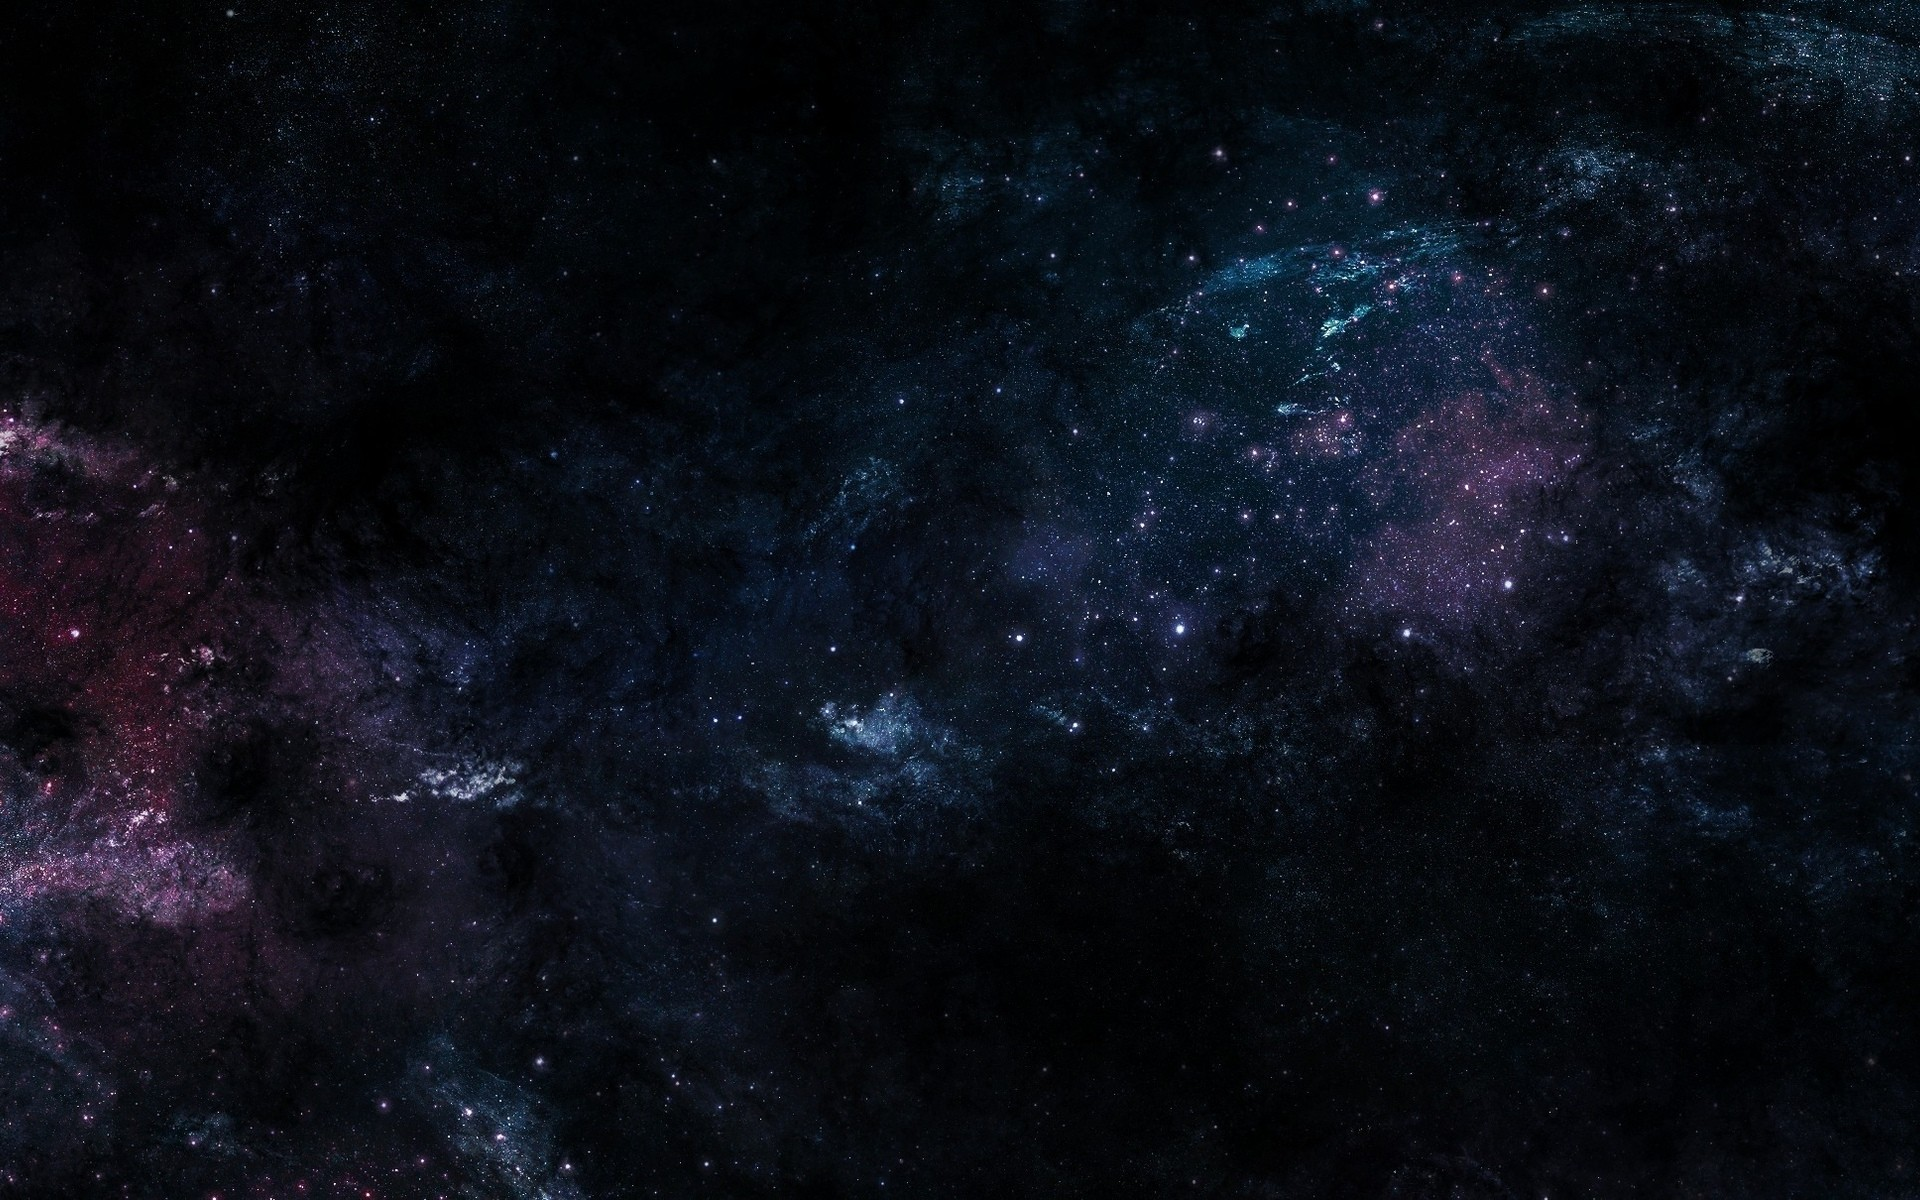
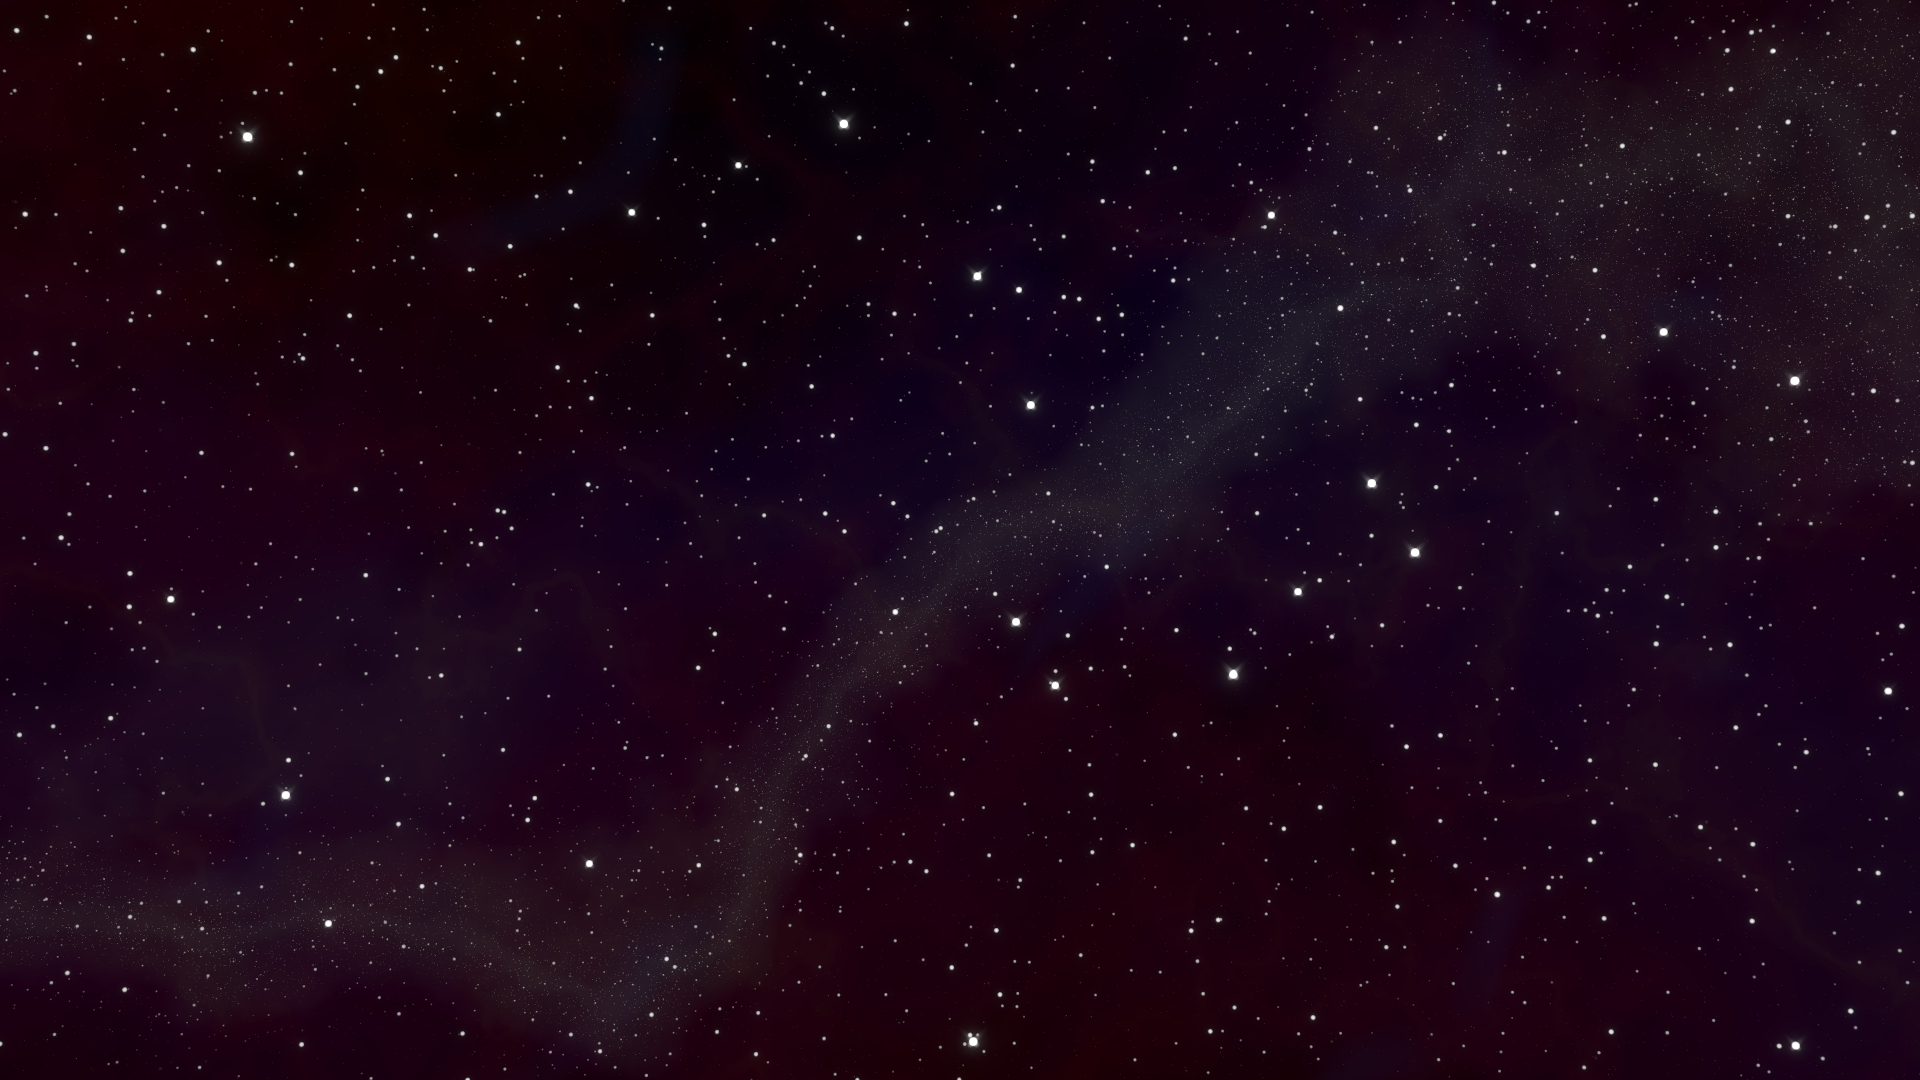
creaet planet function added, bg changed

diff --git a/main.js b/main.js
@@ -8,13 +8,16 @@ import venusImgUrl from './src/images/venus.jpg';
 import marsImgUrl from './src/images/mars.jpg';
 import jupiterImgUrl from './src/images/jupiter.jpeg';
 import saturnImgUrl from './src/images/saturn.jpg';
+import saturnRingUrl from './src/images/saturn-ring.png';
 import uranusImgUrl from './src/images/uranus.jpeg';
 import naptuneImgUrl from './src/images/naptune.jpeg';
 import bgJpg from './src/images/space.jpg';
 import moonImgUrl from './src/images/moon.jpg';
 import moonBumpsImgUrl from './src/images/moon-bumps.jpg';
 
-import data from './data-values';
+const textureLoader = new THREE.TextureLoader();
+
+
 
 // importing orbit control
 import { OrbitControls } from 'three/examples/jsm/controls/OrbitControls';
@@ -27,7 +30,7 @@ renderer.setPixelRatio(window.devicePixelRatio);
 renderer.setSize(window.innerWidth, window.innerHeight);
 
 // open shadows for renender, default is false
-renderer.shadowMap.enabled  = true;
+renderer.shadowMap.enabled = true;
 
 // setting scene
 const scene = new THREE.Scene();
@@ -39,14 +42,13 @@ scene.background = spaceTexture;
 
 // setting up the camera
 const camera = new THREE.PerspectiveCamera(75, window.innerWidth / window.innerHeight, 0.1, 1000);
-camera.position.set(...data.values.PerspectiveCameraPosition)
+camera.position.set(0, 150, 600)
 
 // Adding lighting
 
 // point light is like a light bulb, it spreads the light in all directions.
 const pointLight = new THREE.PointLight(0xffe87c);
 pointLight.intensity = 2;
-pointLight.position.set(...data.values.sunPosition);
 
 
 // setting point light as the shadow source
@@ -59,160 +61,54 @@ scene.add(pointLight);
 
 // adding the sun
 const sunTexture = new THREE.TextureLoader().load(sunImgUrl);
-const sunGravityObj = new THREE.Object3D();
+// const sunGravityObj = new THREE.Object3D();
 const sun = new THREE.Mesh(
-  new THREE.SphereGeometry(50, 32, 32),
+  new THREE.SphereGeometry(50, 32, 20),
   new THREE.MeshBasicMaterial({
     map: sunTexture
   })
 )
-scene.add(sun, sunGravityObj);
+scene.add(sun);
 
+// create planets
+function createPlanet(size, texture, position, ring) {
+  const geo = new THREE.SphereGeometry(size, 30, 30);
+  const mat = new THREE.MeshStandardMaterial({
+    map: textureLoader.load(texture)
+  });
 
+  const mesh = new THREE.Mesh(geo, mat);
+  const obj = new THREE.Object3D();
+  obj.add(mesh);
+  if (ring) {
+    const ringMesh = new THREE.Mesh(
+      new THREE.RingGeometry(ring.innerRadius, ring.outerRadius, 32),
+      new THREE.MeshBasicMaterial({
+        map: textureLoader.load(ring.texture),
+        side: THREE.DoubleSide
+      })
+    );
+    ringMesh.position.x = position;
+    ringMesh.rotation.x = -0.5 * Math.PI;
+    obj.add(ringMesh);
+  }
+  scene.add(obj);
+  mesh.position.x = position
+  return { mesh, obj };
+}
 
-// Adding Marcury
-const marcuryTexture = new THREE.TextureLoader().load(mercuryImgUrl);
-const marcuryGravityObj = new THREE.Object3D();
-const marcury = new THREE.Mesh(
-  new THREE.SphereGeometry(3, 10, 10),
-  new THREE.MeshStandardMaterial({
-    map: marcuryTexture
-  })
-)
-scene.add(marcuryGravityObj);
-marcury.position.set(...data.values.marcuryPosition);
-// setting earth as an object that casts shadow
-marcury.castShadow = true;
-marcuryGravityObj.add(marcury);
-
-// Adding venus
-const venusTexture = new THREE.TextureLoader().load(venusImgUrl);
-const venusGravityObj = new THREE.Object3D();
-const venus = new THREE.Mesh(
-  new THREE.SphereGeometry(5, 32, 32),
-  new THREE.MeshStandardMaterial({
-    map: venusTexture
-  })
-)
-scene.add(venusGravityObj);
-venus.position.set(...data.values.venusPosition);
-// setting earth as an object that casts shadow
-venus.castShadow = true;
-venusGravityObj.add(venus);
-
-// Adding earth
-const earthTexture = new THREE.TextureLoader().load(earthImgUrl);
-const earthBumps = new THREE.TextureLoader().load(earthBumpsImgUrl);
-const earthGravityObj = new THREE.Object3D();
-const earth = new THREE.Mesh(
-  new THREE.SphereGeometry(5, 32, 32),
-  new THREE.MeshStandardMaterial({
-    map: earthTexture,
-    normalMap: earthBumps
-  })
-)
-scene.add(earthGravityObj);
-earth.position.set(...data.values.earthPosition);
-// setting earth as an object that casts shadow
-earth.castShadow = true;
-earthGravityObj.add(earth);
-
-// Adding mars
-const marsTexture = new THREE.TextureLoader().load(marsImgUrl);
-const marsGravityObj = new THREE.Object3D();
-const mars = new THREE.Mesh(
-  new THREE.SphereGeometry(5, 32, 32),
-  new THREE.MeshStandardMaterial({
-    map: marsTexture
-  })
-)
-scene.add(marsGravityObj);
-mars.position.set(...data.values.marsPosition);
-// setting earth as an object that casts shadow
-mars.castShadow = true;
-marsGravityObj.add(mars);
-
-// Adding jupiter
-const jupiterTexture = new THREE.TextureLoader().load(jupiterImgUrl);
-const jupiterGravityObj = new THREE.Object3D();
-const jupiter = new THREE.Mesh(
-  new THREE.SphereGeometry(15, 32, 32),
-  new THREE.MeshStandardMaterial({
-    map: jupiterTexture
-  })
-)
-scene.add(jupiterGravityObj);
-jupiter.position.set(...data.values.jupiterPosition);
-// setting earth as an object that casts shadow
-jupiter.castShadow = true;
-jupiterGravityObj.add(jupiter);
-
-// Adding Saturn
-const saturnTexture = new THREE.TextureLoader().load(saturnImgUrl);
-const saturnGravityObj = new THREE.Object3D();
-const saturn = new THREE.Mesh(
-  new THREE.SphereGeometry(15, 32, 32),
-  new THREE.MeshStandardMaterial({
-    map: saturnTexture
-  })
-)
-scene.add(saturnGravityObj);
-saturn.position.set(...data.values.saturnPosition);
-// setting earth as an object that casts shadow
-saturn.castShadow = true;
-saturnGravityObj.add(saturn);
-
-// Adding Uranus
-const uranusTexture = new THREE.TextureLoader().load(uranusImgUrl);
-const uranusGravityObj = new THREE.Object3D();
-const uranus = new THREE.Mesh(
-  new THREE.SphereGeometry(10, 32, 32),
-  new THREE.MeshStandardMaterial({
-    map: uranusTexture
-  })
-)
-scene.add(uranusGravityObj);
-uranus.position.set(...data.values.uranusPosition);
-// setting earth as an object that casts shadow
-uranus.castShadow = true;
-uranusGravityObj.add(uranus);
-
-// Adding Naptune
-const naptuneTexture = new THREE.TextureLoader().load(naptuneImgUrl);
-const naptuneGravityObj = new THREE.Object3D();
-const naptune = new THREE.Mesh(
-  new THREE.SphereGeometry(10, 32, 32),
-  new THREE.MeshStandardMaterial({
-    map: naptuneTexture
-  })
-)
-scene.add(naptuneGravityObj);
-naptune.position.set(...data.values.naptunePosition);
-// setting earth as an object that casts shadow
-naptune.castShadow = true;
-naptuneGravityObj.add(naptune);
-
-// Adding Moon
-// const moonTexture = new THREE.TextureLoader().load(moonImgUrl);
-// const moonBumps = new THREE.TextureLoader().load(moonBumpsImgUrl);
-// const moon = new THREE.Mesh(
-//   new THREE.SphereGeometry(2, 32, 32),
-//   new THREE.MeshStandardMaterial({
-//     map: moonTexture,
-//     normalMap: moonBumps
-//   })
-// )
-// // moon position
-// moon.position.set(10, 10, -20);
-// // setting moon as reciever of shadow
-// moon.receiveShadow = true;
-// earthGravityObj.add(moon);
-
-
-
-// add to scene
-// scene.add(earth, sun);
-
+const mercury = createPlanet(3, mercuryImgUrl, 80);
+const venus = createPlanet(5, venusImgUrl, 110);
+const earth = createPlanet(5, earthImgUrl, 140);
+const mars = createPlanet(5, marsImgUrl, 170);
+const jupiter = createPlanet(15, jupiterImgUrl, 210);
+const saturn = createPlanet(14, saturnImgUrl, 300, {
+  innerRadius: 18,
+  outerRadius: 30,
+  texture: saturnRingUrl
+});
+const uranus = createPlanet(10, uranusImgUrl, 340);
+const naptune = createPlanet(10, naptuneImgUrl, 370);
 
 
 //  Calling orbit control
@@ -221,14 +117,23 @@ const controls = new OrbitControls(camera, renderer.domElement);
 // Making recursive function to animate the object
 function animate() {
   requestAnimationFrame(animate);
-  marcuryGravityObj.rotation.y += 0.04;
-  venusGravityObj.rotation.y += 0.03;
-  marsGravityObj.rotation.y += 0.02;
-  earthGravityObj.rotation.y += 0.01;
-  jupiterGravityObj.rotation.y += 0.008;
-  saturnGravityObj.rotation.y += 0.007;
-  uranusGravityObj.rotation.y += 0.006;
-  naptuneGravityObj.rotation.y += 0.005;
+  mercury.obj.rotation.y += 0.04;
+  venus.obj.rotation.y += 0.03;
+  earth.obj.rotation.y += 0.02;
+  mars.obj.rotation.y += 0.01;
+  jupiter.obj.rotation.y += 0.008;
+  saturn.obj.rotation.y += 0.007;
+  uranus.obj.rotation.y += 0.006;
+  naptune.obj.rotation.y += 0.005;
+
+  mercury.mesh.rotation.y += 0.005;
+  venus.mesh.rotation.y += 0.005;
+  earth.mesh.rotation.y += 0.005;
+  mars.mesh.rotation.y += 0.005;
+  jupiter.mesh.rotation.y += 0.005;
+  saturn.mesh.rotation.y += 0.005;
+  uranus.mesh.rotation.y += 0.005;
+  naptune.mesh.rotation.y += 0.005;
 
   // earth.rotation.y += 0.002;
   // moon.rotation.y += 0.001;
@@ -239,30 +144,5 @@ function animate() {
   renderer.render(scene, camera);
 }
 animate();
-
-// Adding stars
-// function addStars() {
-//   const geometry = new THREE.SphereGeometry(0.25, 24, 24);
-//   const material = new THREE.MeshStandardMaterial({ color: 0xffffff });
-//   const star = new THREE.Mesh(geometry, material);
-//   const [x, y, z] = Array(3).fill().map(() => THREE.MathUtils.randFloatSpread(100));
-//   star.position.set(x, y, z);
-//   scene.add(star);
-//   star.receiveShadow = true;
-// }
-
-//Creating an array of 200 values and call the addStar for each
-// Array(200).fill().forEach(addStars);
-
-// cube texture loader to set 3D background
-// const cubeTexture = new THREE.CubeTextureLoader.load([
-//   bgJpg,
-//   bgJpg,
-//   bgJpg,
-//   bgJpg,
-//   bgJpg,
-//   bgJpg
-// ]);
-// scene.background = cubeTexture;
 
 

diff --git a/data-values.js b/data-values.js
@@ -1,14 +1,12 @@
 let values = {
   PerspectiveCameraPosition: [0, 150, 600],
   sunPosition: [0, 0, 0],
-  marcuryPosition: [80, 0, 0],
-  venusPosition: [110, 0, 0],
-  earthPosition: [140, 0, 0],
   marsPosition: [170, 0, 0],
   jupiterPosition: [210, 0, 0],
   saturnPosition: [300, 0, 0],
   uranusPosition: [340, 0, 0],
   naptunePosition: [370, 0, 0]
+  18 30
 }
 
 export default {values};

diff --git a/index.html b/index.html
@@ -45,7 +45,7 @@
         loading.style.visibility = "hidden";
       }
 
-      setInterval(hideLoading, 1);
+      setInterval(hideLoading, 4000);
     </script>
   </body>
 </html>
